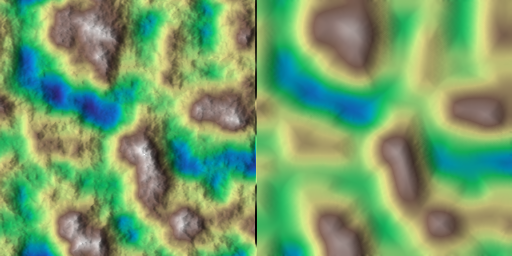
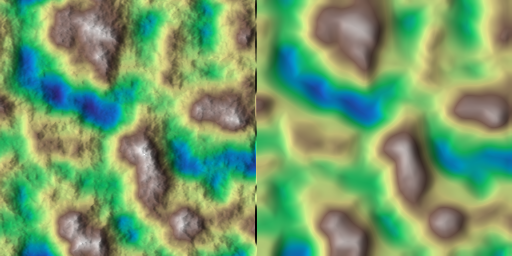
Update thermal erosion procedure using averaging over the first neighbors

Changed region(s): [[0.5, 0.0, 1.0, 1.0], [0.9375, 0.875, 1.0, 1.0]]

diff --git a/src/erosion/thermal.cpp b/src/erosion/thermal.cpp
@@ -7,6 +7,8 @@
 #include "highmap/op.hpp"
 #include "highmap/primitives.hpp"
 
+#include "macrologger.h"
+
 // neighbor pattern search based on Moore pattern and define diagonal
 // weight coefficients ('c' corresponds to a weight coefficient
 // applied to take into account the longer distance for diagonal
@@ -43,13 +45,13 @@ void thermal(Array &z,
   // main loop
   for (int it = 0; it < iterations; it++)
   {
-    Array z_next = z;
-
     // modify neighbor search at each iterations to limit numerical
     // artifacts
     std::rotate(di.begin(), di.begin() + 1, di.end());
     std::rotate(dj.begin(), dj.begin() + 1, dj.end());
     std::rotate(c.begin(), c.begin() + 1, c.end());
+
+    LOG_DEBUG("%d", it);
 
     for (int i = 1; i < z.shape[0] - 1; i++)
     {
@@ -58,35 +60,36 @@ void thermal(Array &z,
         if (z(i, j) > bedrock(i, j))
         {
           // loop over the neighbors
-          float dmax = 0.f;
-          int   ia = -1;
-          int   ja = -1;
+          float              dmax = 0.f;
+          float              dsum = 0.f;
+          std::vector<float> dz(nb);
 
           for (uint k = 0; k < nb; k++)
           {
-            // elevation difference between the two cells
-            float delta =
-                z(i, j) - z(i + di[k], j + dj[k]) - talus(i, j) * c[k];
-            if (delta > dmax)
+            dz[k] = z(i, j) - z(i + di[k], j + dj[k]);
+            if (dz[k] > talus(i, j) * c[k])
             {
-              dmax = delta;
-              ia = i + di[k];
-              ja = j + dj[k];
+              dsum += dz[k];
+              dmax = std::max(dmax, dz[k]);
             }
           }
 
-          if (ia >= 0)
+          if (dmax > 0.f)
           {
-            float amount = std::min(ct * dmax, z(i, j) - bedrock(i, j));
-            z_next(i, j) -= amount;
-            z_next(ia, ja) += amount;
+            for (uint k = 0; k < nb; k++)
+            {
+              int   ia = i + di[k];
+              int   ja = j + dj[k];
+              float amount =
+                  std::min(ct * (dmax - talus(i, j) * c[k]) * dz[k] / dsum,
+                           z(i, j) - bedrock(i, j));
+              // float amount = ct * (dmax - talus(i, j) * c[k]) * dz[k] / dsum;
+              z(ia, ja) += amount;
+            }
           }
         }
       }
     }
-
-    // move on to the next iteration
-    z = z_next;
   }
 
   // clean-up: fix boundaries, remove spurious oscillations and make

diff --git a/include/highmap/erosion.hpp b/include/highmap/erosion.hpp
@@ -223,6 +223,9 @@ void stratify(Array             &z,
 /**
  * @brief Apply thermal weathering erosion.
  *
+ * Based on averaging over first neighbors, see \cite Olsen2004. Refer to \cite
+ * Musgrave1989 for the original formulation.
+ *
  * @todo optimize memory usage (to avoid large constant arrays).
  *
  * Thermal erosion refers to the process in which surface sediment weakens
@@ -245,20 +248,20 @@ void stratify(Array             &z,
 void thermal(Array &z,
              Array &talus,
              Array &bedrock,
-             int    iterations = 50,
-             float  ct = 0.4,
+             int    iterations = 10,
+             float  ct = 0.5,
              bool   post_filtering = true);
 
 void thermal(Array &array,
              Array &talus,
-             int    iterations = 50,
-             float  ct = 0.4,
+             int    iterations = 10,
+             float  ct = 0.5,
              bool   post_filtering = true); ///< @overload
 
 void thermal(Array &z,
              float  talus,
-             int    iterations = 50,
-             float  ct = 0.4,
+             int    iterations = 10,
+             float  ct = 0.5,
              bool   post_filtering = true); ///< @overload
 
 /**
@@ -283,14 +286,14 @@ void thermal(Array &z,
  */
 void thermal_auto_bedrock(Array &z,
                           Array &talus,
-                          int    iterations = 50,
-                          float  ct = 0.4,
+                          int    iterations = 10,
+                          float  ct = 0.5,
                           bool   post_filtering = true);
 
 void thermal_auto_bedrock(Array &z,
                           float  talus,
-                          int    iterations = 50,
-                          float  ct = 0.4,
+                          int    iterations = 10,
+                          float  ct = 0.5,
                           bool   post_filtering = true); ///< @overload
 
 } // namespace hmap

diff --git a/include/highmap/op.hpp b/include/highmap/op.hpp
@@ -66,7 +66,12 @@ inline float approx_rsqrt(float a)
  */
 Array atan(const Array &array);
 
-inline float bilinear_interp(float f00, float f10, float f01, float f11, float u, float v)
+inline float bilinear_interp(float f00,
+                             float f10,
+                             float f01,
+                             float f11,
+                             float u,
+                             float v)
 {
   float a10 = f10 - f00;
   float a01 = f01 - f00;

diff --git a/examples/ex_thermal/ex_thermal.cpp b/examples/ex_thermal/ex_thermal.cpp
@@ -14,5 +14,7 @@ int main(void)
 
   hmap::thermal(z, 0.1f / shape[0]);
 
+  z.infos();
+
   hmap::export_banner_png("ex_thermal.png", {z0, z}, hmap::cmap::terrain, true);
 }
